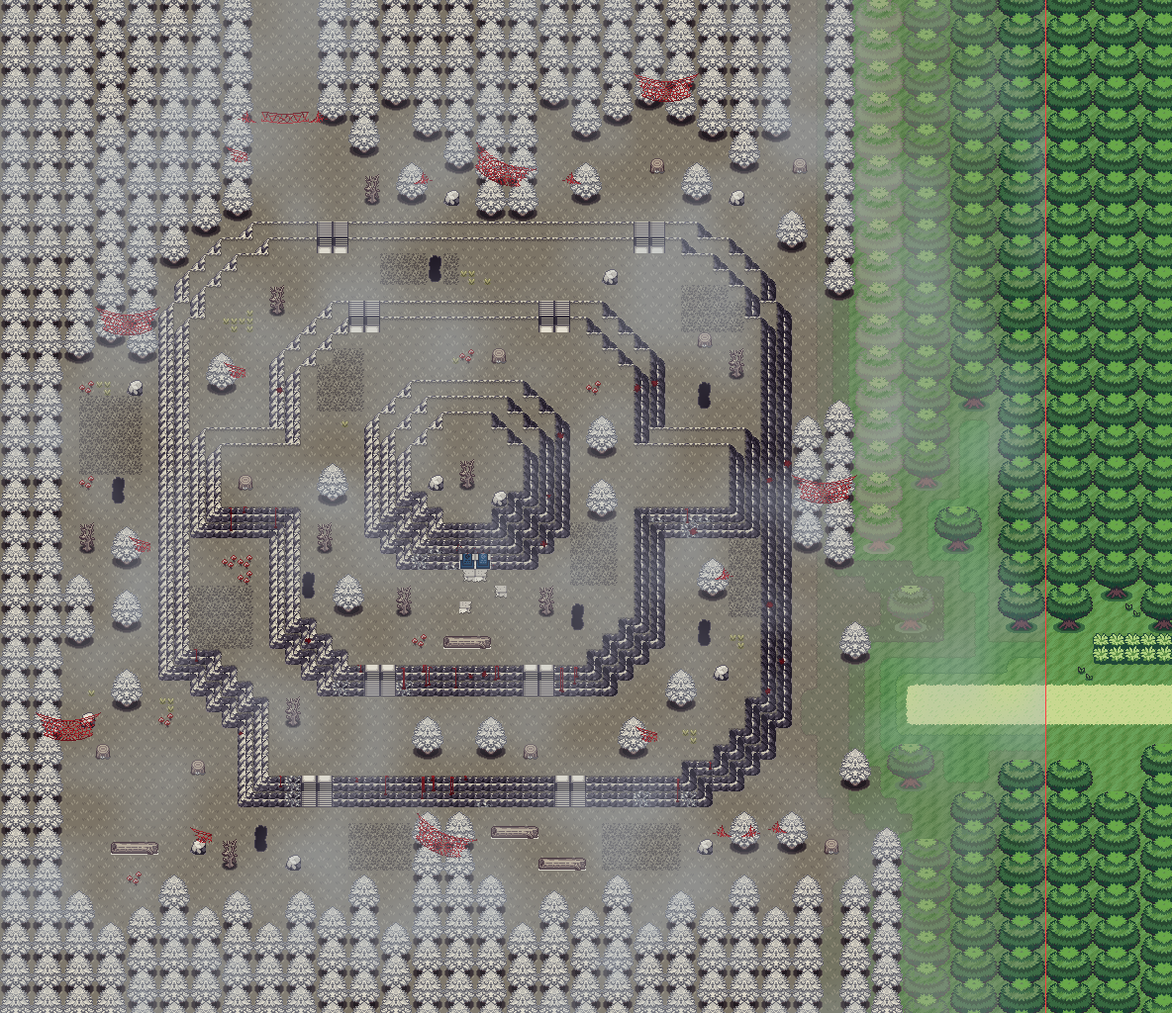
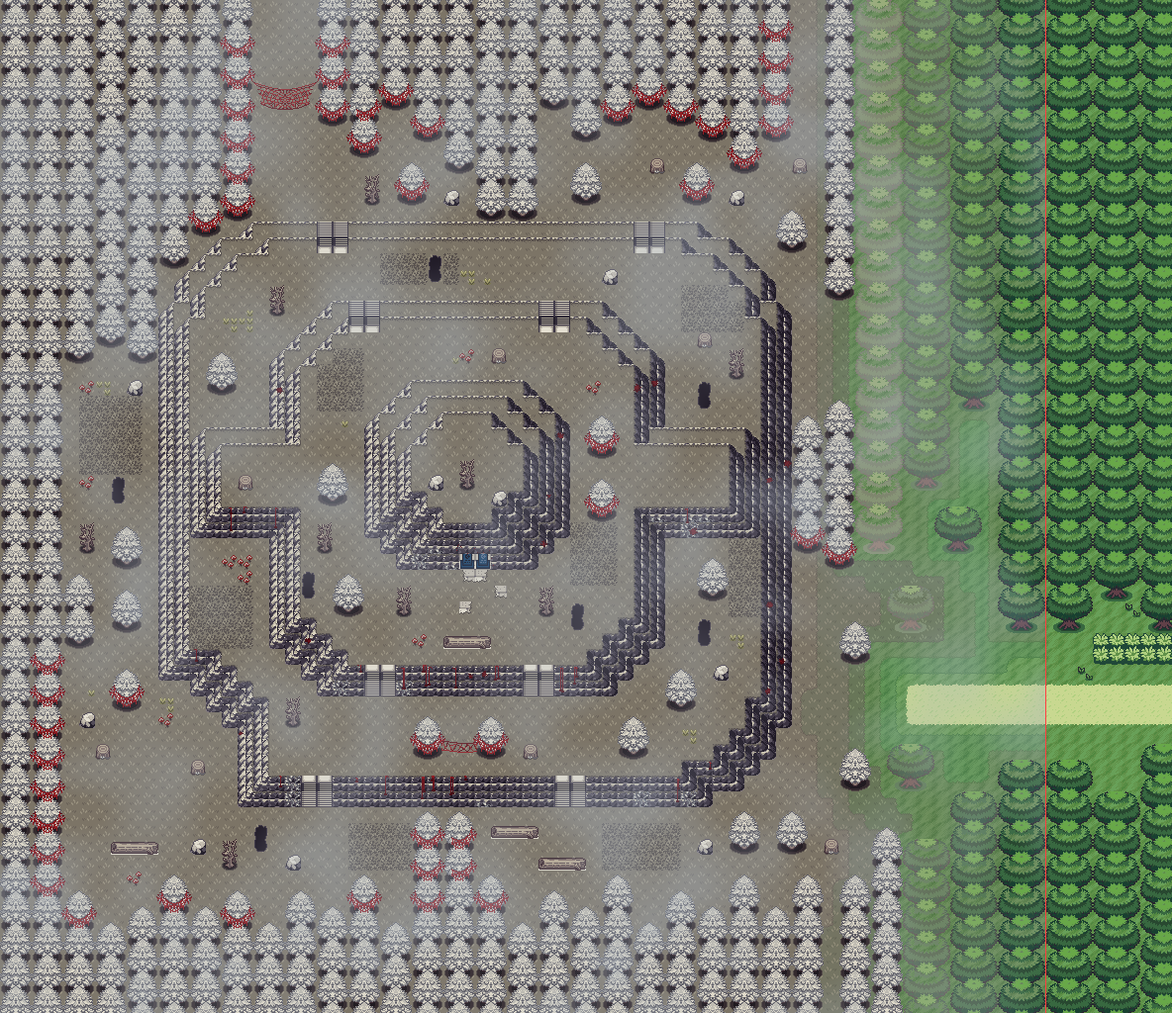
Hollow Hill mock v6: webs hung the way MonoMyth's Webbed Woods hangs them
Per the user (study the Webbed Woods): the web layer cut from MonoMyth's webbed trees
(fans at the crown's sides, the drape under it, the shared fan between neighbours, the
strand across a gap) is put on pines in patches at the woods' edges; the big net only
across the narrow way north; a strand between the user's pair of pines. Old-blood red.

Claude-Session: https://claude.ai/code/session_01FHXnfqnedTHLf5QFbB3MCU

diff --git a/tools/art/hollowhill/hh_mock.py b/tools/art/hollowhill/hh_mock.py
@@ -156,6 +156,7 @@ class Map:
         self.face = {}                                     # (x, y) -> Odyssey metatile (terraces, stairs, door)
         self.over = [[[] for _ in range(W)] for _ in range(H)]
         self.used = np.full((H, W), None, object)
+        self.units = []                                    # the pines of the woods' columns: (x0, top row)
         self.ground = [[None] * W for _ in range(H)]       # an RGB image replacing the grass, or None
         for y in range(H):
             for x in range(W):
@@ -252,7 +253,14 @@ def pine(M, x, y, check=True):
     for dy, row in enumerate(PINE):
         for dx, v in enumerate(row): M.lay(x + dx, y + dy, 'ody', v, f'tree:pine{x},{y}', top=dy == 0)
 
+def column_units(x0, yt, yb, kind):
+    if kind == 'north': return [(x0, f - 2) for f in range(yb, 1, -2)]
+    if kind == 'south': return [(x0, t) for t in range(yt, H - 2, 2)]
+    if kind == 'stack': return [(x0, t) for t in range(yt, yb - 1, 2)]
+    return [(x0, t) for t in range((yt + 1) // 2 * 2, yb - 1, 2)]           # 'wall': a crown on every even row
+
 def pine_column(M, x0, yt, yb, kind):
+    M.units += column_units(x0, yt, yb, kind)
     """Odyssey's pine forest: a column of pines two cells wide, each overlapping the one below (283 284: one pine's
     foot over the next one's crown). kind 'north' hangs from above yt (cut by the map's top), ends in a foot at yb;
     'south' starts with a crown at yt and runs off the bottom; 'wall' runs through (cut both ends)."""
@@ -558,32 +566,62 @@ def blood(M, img, seed=13, n=22):
         if 0 <= y < H * 16 and faceish[y, x] : img[y, x] = BLOOD[int(rng.integers(0, 2))]
     return img
 
-# webs: the Webbed Woods' webbing (MonoMyth; cut out for the haunted teachers' lounge), blood red, hung in the trees
+# webs (user 2026-11-20): the Webbed Woods' own webbing (MonoMyth), as MonoMyth hangs it, blood red. It lives in the
+# trees: on a webbed tree a fan of web at each side of its crown and a drape sagging under it; trees side by side
+# share a fan in the V between them; a zig-zag strand crosses an open gap from one webbed tree to the next; a big
+# sagging net closes a narrow path between two webbed trees. Webbing comes in patches (whole stretches of woods), not
+# on every tree. Layers cut from MonoMyth's webbed trees (its map 0x886DD40: cells 236 234 237 / 21e 22c 21f, the
+# shared fans 235 233 / 21d 21b, the strand 279 277 275 26e 26f / 27a 278 272 273 274), keyed out by the two web
+# colours: assets/monomyth_reference/pieces/webtree_*.png; the net: web_net.png (0x886DD5C).
 WEB_DIR = os.path.join(HERE, '..', '..', '..', 'assets', 'monomyth_reference', 'pieces')
-WEB_RED = {(240, 240, 248): (170, 36, 42), (200, 216, 232): (104, 18, 26)}
+WEB_RED = {(240, 240, 248): (146, 30, 36), (200, 216, 232): (92, 16, 24)}          # (old blood, not paint)
 def web(name):
     im = np.array(Image.open(os.path.join(WEB_DIR, name + '.png')).convert('RGBA'))
     for a, b in WEB_RED.items(): im[(im[..., :3] == a).all(-1), :3] = b
+    im[im[..., 3] == 0] = 0
     return im
 
-# (piece, cell x, cell y, pixel offset x, y): across the way north, over the trees that close the ways, at the
-# clearing's edge, at the foot of the stairs, among the clumps of pines on the rings
-WEBS = [('web_strand', 16, 7, 8, 1), ('web_corner_l', 15, 7, 0, 0), ('web_corner_r', 19, 7, 8, 0),
-        ('web_net', 6, 19, 0, 6), ('web_net_tilted', 30, 9, 0, 0), ('web_net', 50, 30, 0, 0),
-        ('web_net_tilted', 26, 51, 4, 6), ('web_net', 2, 45, 4, 0), ('web_small', 12, 52, 0, 4),
-        ('web_drape', 45, 52, 0, 2), ('web_small', 14, 9, 4, 4), ('web_net', 40, 4, 0, 10)]
+# the webbed patches (cells x0, y0, x1, y1): a pine is webbed when its crown's widest row lies inside one
+WEBBED = [(12, 0, 28, 13),            # round the way north, and the woods' edge above the dead tree (user)
+          (24, 44, 33, 48),           # the pair of pines on ring 1's south terrace (user)
+          (0, 41, 17, 63),            # round the clearing
+          (47, 23, 54, 37),           # the trees closing the way east
+          (23, 50, 31, 63),           # the trees closing the way south
+          (38, 0, 51, 12),            # the north-east woods
+          (34, 23, 41, 33)]           # a clump on ring 2
+NETS = [(16, 4, 5)]                   # (gap's first cell x, width, tree row): the big net across the way north
 
 def hang_webs(M, img):
     out = Image.fromarray(img).convert('RGBA')
-    for name, x, y, ox, oy in WEBS:
-        out.alpha_composite(Image.fromarray(web(name)), (x * 16 + ox, y * 16 + oy))
-    # and on a few of the pines standing alone: a small web or a corner caught in the branches
-    pines = sorted({u for u in M.used.ravel() if isinstance(u, str) and u.startswith('tree:pine')})
-    for i, u in enumerate(pines):
-        if i % 3: continue
-        x, y = map(int, u[len('tree:pine'):].split(','))
-        name = ('web_small', 'web_corner_r', 'web_corner_l')[(i // 3) % 3]
-        out.alpha_composite(Image.fromarray(web(name)), (x * 16 + (18 if name != 'web_corner_l' else -8), y * 16 + 14))
+    put = lambda name, px, py: out.alpha_composite(Image.fromarray(web(name)), (int(px), int(py)))
+    def open_(x, y): return 0 <= x < W and 0 <= y < H and (M.used[y, x] in (None, 'road') or str(M.used[y, x]).startswith('soft'))
+    # of the woods, only the trees on their edge (facing open ground: the ones the player sees close by)
+    trees = {(x, y) for x, y in M.units if M.used[y + 1, x] == 'woods' and
+             (any(open_(x + dx, y + dy) for dx in (-1, 2) for dy in (1, 2)) or open_(x, y + 3) or open_(x + 1, y + 3))}
+    alone = {tuple(map(int, u[len('tree:pine'):].split(','))) for u in M.used.ravel()
+             if isinstance(u, str) and u.startswith('tree:pine')}
+    trees |= alone
+    webbed = sorted((x, y) for x, y in trees
+                    if any(a <= x + 1 <= c and b <= y + 1 <= d for a, b, c, d in WEBBED))
+    at = set(webbed)
+    for x, y in webbed:
+        px, py = x * 16, (y + 1) * 16                       # the crown's widest row and the row under it
+        put('webtree_drape', px + 8, py)
+        if (x - 2, y) not in at: put('webtree_fan_l', px - 6, py)
+        if (x + 2, y) in at: put('webtree_fan_r', px + 22, py)       # the fan both trees share
+        else: put('webtree_fan_r', px + 22, py)
+        # a strand across an open gap to the next webbed tree in the row (1-4 cells of open ground)
+        for g in range(1, 5):
+            if (x, y) in alone and (x + 2 + g, y) in alone and (x + 2 + g, y) in at and all(M.used[y + 1, x + 2 + k] in (None, 'road') or str(M.used[y + 1, x + 2 + k]).startswith('soft')
+                                             for k in range(g)):
+                s = web('webtree_strand'); mid = s[:, 16:64]
+                span = g * 16 + 4
+                body = np.concatenate([mid] * 3, 1)[:, :span]
+                put_arr = Image.fromarray(body); out.alpha_composite(put_arr, ((x + 2) * 16 - 2, py))
+                break
+    for gx, w, row in NETS:
+        net = web('web_net')
+        out.alpha_composite(Image.fromarray(net), (gx * 16 + (w * 16 - net.shape[1]) // 2, row * 16 + 2))
     return np.array(out.convert('RGB'))
 
 def main(outdir):

diff --git a/bible/20_chapter1_build.md b/bible/20_chapter1_build.md
@@ -180,7 +180,7 @@ Chapter 1 is the template: once its foundations (mechanics, maps, buildings, NPC
 - **Pelluca's five houses (user design 2026-11-19), installed (stage 1: the look).** The five "door is locked" houses open: `PellucaHouse1`-`5` behind (59,8), (54,23), (64,23), (54,30), (64,30) (Pelluca warps 5-9; the manor takes 10 when it opens). Crown's medieval cottage kit (group 4 #1; credit: Blah and the Crown team, with permission): stone walls with small windows, plank floor, beds, wardrobes, bookcases, tables and chairs, candelabras, coat stands, barrels (user: Crown cottages with MonoMyth pieces where they make sense). **H1** (the two-winged timber townhouse, larger, 19x11): bookcases and MonoMyth's tree-stump lodge table with its stools (user), Crown's upright organ on its rug (from the manor set), wardrobe, bed, table. **H2:** an iron cauldron against the back wall (Crown's alchemist's room, group 18 #1), bed, wardrobe, bookcase, table. **H3:** two beds, the table in the middle, barrels by the door. **H4:** bookcases, the alchemist's cluttered desk and potion shelf, bed, table. **H5:** the smallest: wardrobe, table, bed, barrels, coat stand. User: no hearths (each replaced by something no other house has), no round rugs, no single chairs standing mid-floor. One shared tileset pair (`pelluca_houses_tiles` / `pelluca_houses`, 208 tiles, 63 metatiles, 9 palettes, pixel-identical to the mocks), built by `tools/art/houses/` (`houses_mock.py`, `build_houses.py`). Verified in the emulator: into each house from its door, around it, out by the mat. *Stage 2:* who lives in each, NPCs, dialogue.
 - **The ice path and the church after the blast (user design 2026-11-19), built (stage 1 + the stage-3 puzzle, user: the two combined for this piece).** **The church after Eden's blast** is a second layout of the same hall map (`LAYOUT_PELLUCA_TEMPLAR_HALL_RUINED`), swapped in by the hall's on-transition script once **`FLAG_DR_CHURCH_BLASTED`** is set (the blast scene, stage 4): the split through the gold medallion with frost round it, the old fault's cracks in wall and carpet, the cracked stained glass (three in the great window, one across the girl's face; two in each lancet) and the cell doorway caved in under MonoMyth's Mt. Thunder rubble (`blast_mock.py`, approved); no long crack from the rubble to the split (tried, dropped, user: unnatural and not needed). Everything else plays as the intact hall: its collision, its exit, and its side tables' tops over the player, read from the intact layout. The four split cells drop the player (Mt. Pyre's fall-through-the-hole) onto the ice path's landing; the cell door is dead and the fallen stone in front of it solid. **The ice path** (`PellucaIcePath`, 16x24, `icepath_mock.py`, approved): the landing, the 12x9 thin-ice field (86 ice cells, 22 ice boulders, a unique route from the landing to the gate), the ice wall and its gate, and the shrine: the half-thawed Arceus statue between the fossilised log benches, fire rings and blue flowers, and the three stone tusk arches like a ribcage before it. **The puzzle** runs on vanilla's Sootopolis-gym step callback (`STEP_CB_SOOTOPOLIS_ICE`, `VAR_ICE_STEP_COUNT`), which `src/field_tasks.c` now points at this map's own cracked/broken metatiles on this layout (`METATILE_PellucaIcePath_*`, written by the build into `metatile_labels.h`; the Sootopolis row-var bookkeeping kept to the gym). All 86 cracked (count 87): the gate's ice gives way (`SE_ICE_STAIRS`), the field refreezes solid (special `DrIcePathFreeze`: safe ice, no behaviour) and **`FLAG_DR_ICE_PATH_SOLVED`** is set; a second step on a cracked cell: the ice breaks, the player drops through, black screen, back on the landing with a fresh field. Every full load of the map rebuilds a fresh field and count when unsolved (special `DrIcePathReset`; a continued save would otherwise restore cracked cells in view), and the solved state (gate open, refrozen field) when solved. **Ways out:** the ladder in the shrine's corner, and (added in the build, so the player is never stuck before solving) **the Templars' rope** hanging beside the landing; both bring the player up just south of the split (hall warp 2). The ribs stand free: only each leg's foot is solid, the rest of each rib is drawn over the player, so he walks under and between them. Map type underground. Flags: `FLAG_DR_CHURCH_BLASTED` = 0x901, `FLAG_DR_ICE_PATH_SOLVED` = 0x902. Built by `tools/art/icepath/build_icepath.py` and `tools/art/templar/build_ruined.py` (with `imgtiles.py`; `tools/art/academy/tilefit.py` merges the statue's rarest near-shades so each 8x8 tile fits one palette, no visible change); `CHURCH_TEST_BLASTED=1` builds a test ROM that sets the flag on entering the hall. **Verified in the emulator** (test build): city -> ruined hall -> the cell door blocked -> into the split -> the landing; a second step on a cracked cell -> reset to the landing; the rope up and back down; the solution walked -> gate open, field refrozen -> the shrine -> the ladder up -> back down the split: still solved, the field crossed back and forth without falling. Normal build: the intact hall unchanged (city -> hall -> cell -> hall -> city; the split cells inert). *Stage 3-4, still to do:* the blast scene that sets the flag, the Templar's remark on the cold, the Sparkling Opal and the discovery, the Archbishop's scene, the leave-the-Valley block, dialogue for the fall (the field's black-out is silent for now).
 - **The shrine's awakening and the Sparkling Opal (user design 2026-11-20), built.** With the field solved, **pressing A on the Arceus statue** awakens the holy power of the site: dramatic music starts at the touch (**Rayquaza Appears**, `MUS_RAYQUAZA_APPEARS`; user: something awe-inspiring), a rumble, **the ice melts off the statue** (five frames, a little meltwater left at its foot), **the seal breaks in a holy flash** (fade to white and back) with **Arceus's cry echoing** (the cry's chorus mode under a heavy mixer reverb: specials `DrPlayEchoCry` / `DrEndEchoCry`), **the two fire rings beside the logs light** one after the other in **holy sapphire-and-white flame** (user's pick over warm firelight; animated, four frames on dedicated tiles: `InitTilesetAnim_PellucaIcePath`), and the music ends. Then Osrid (portrait, his private nameplate): "Something fell down out of the ice... Could this be...!!", and **"Osrid found the Sparkling Opal!"** with the key-item fanfare and its description popup. The statue stays thawed and the fires lit (`FLAG_DR_STATUE_AWAKENED` = 0x909, restored on every load). **Sparkling Opal** (`ITEM_SPARKLING_OPAL`, key item): its bag icon drawn in `awaken_mock.py` (a milky opal with a rainbow patchwork of play of colour, user); bag text (three lines fit): "Fell from the ice of / an Arceus statue. It / shimmers as if alive." (the user's description, "A gleaming opal that fell from the ice around an ancient Arceus statue. Its colours shift as if alive.", is too long for the bag window; it can be the text when the item is first shown or examined). **What happens to it (user 2026-11-20, canon):** when the player goes back up and shows it to **Archbishop Ambrose**, he gives them the **Warding Ring** with massive enthusiasm (a key item that, worn, keeps wild Pokémon away: a Repel switched on and off at will): Sparkling Opals appear only where Arceus has set foot in the material realm, the Templars have sought one for centuries, and this is the first physical proof of Arceus found in centuries as far as he knows. The player also gets the bravery reward (Never-Melt Ice / Metal Coat / Soft Sand). Stage 4: the scene; the Ring's mechanic to be built with it. **Ice path music (user):** the cave plays **MonoMyth's Old Headquarters theme** (Old Town's Old HQ, where the gang leader with the Bug Pokémon is fought): MonoMyth song 677 ported note for note by `tools/monomyth/port_song.py` (tracks, the voices it uses, its two samples; credit MonoMyth) as `MUS_DR_OLD_HQ` (song 631). **Church crack** (user): the long fresh crack from the cell rubble to the split is gone. Built by `build_icepath.py` with `awaken_mock.py` (melt frames, flames, icon); the statue's cells across all the melt frames share 26 colours (`tilefit.reduce_joint`) so the room still fits 13 palettes. **Verified in the emulator** (test build): the cave plays the Old HQ theme; A on the statue plays the whole sequence (music switches to Rayquaza Appears and back, the melt, the flash, both fires, the line, the item into Key Items); leaving and coming back: statue thawed, fires lit and flickering (four distinct frames).
-- **Route 11 and Hollow Hill: layouts approved (user 2026-11-20).** **Route 11** (45x30, west from Pelluca's west road): Pelluca's pines and cobble road carry on at the east end (the seam to Pelluca uses Pelluca's own Cormoria tiles), farmland in the middle (a thatched farmhouse with a fenced yard, cabbage rows, a sown field, hay; fenced flower rows and tall grass south of the road), tan cliffs stepping down along the north, a cliff-flanked little cove on the south coast, and at the west end the road becomes a dirt track into cooler dark woods running on into Hollow Hill (the Eiscue scene on that track). Art: Crown's seaside farm village (3.1) and dark woods (3.25), Odyssey's farm (0.232); Pisces' Brumist Cliffs / Zotpyre Village (snowy in the ROM) and Odyssey's terraced hill as layout ideas. **Hollow Hill** (about 50x50; **its theme (approved by the user 2026-11-20, "perfect"):** Ghost Grey's Route 1 theme re-arranged as `MUS_DR_HOLLOW_HILL` by `tools/music/arrange_hollow_hill.py`: slowed from 124 to 64 bpm, on the soft pedal piano, no percussion, with a ghostly far-off voice echoing the tune (a sine tone first, heard as beeps: replaced) (wind was tried and taken out: it came across as static) in the bars where the song falls quiet; credit Ghost Grey): woods rising in three rings, each a cliff step up, to a central rock knoll; the path in from Route 11 climbs the rings by stairs to **the sealed tunnel door** at the knoll's foot; the north exit to Mirroh leaves from the outer ring (Glaive there); the Eiscue and the 1v2 on the outer ring; **very foggy, with a generally spooky, unsettling feeling** (user 2026-11-20). **The summit is late-game** (unlocked only with Valkeerin/Keerin in the party; the trip to the distant future and the Red fight happen there; 19_location_atlas.md). **Hollow Hill will be revisited and added to over the whole game** (many secrets, met in pieces): its layout and its tileset keep room for more (hidden burrow mouths placed now as scenery that can later open, the summit area behind the sealed door, spare palette and tile room in its tileset). **Revision (user 2026-11-20, after the first mock):** Route 11 is **about twice as long (about 90x30)**; the **Ivy River's thin western branch** (as on the illustrated region map, coming down from the north past the Necropolis just west of Pelluca) **crosses Route 11 near its Pelluca end and runs down to the beach and the sea; the road crosses it on a bridge**; the **grass shifts gradually** from Pelluca's light mint to the darker temperate greens of Hollow Hill's woods (shades reaching into each other in patches, as MonoMyth's and Crown's route boundaries do; tree kinds mixing before they change). Design rule: no tree or object ever cut, stacked into another or bleeding into buildings, cliffs or water (docs/chapter1_workflow.md). **Mock v2 (2026-11-20):** the river drops through a chasm in three falls (the middle one under the bridge), over the coastal cliff into a rock pool, and a stream bends west over the sand to the sea; the beach is a cove between cliff walls, split by the stream. **Steps down to the west beach (user 2026-11-20)** are cut into the coastal cliff just west of the bridge (stone stairs, two wide: Pelluca's own stair tiles, as in its sea wall): the beach holds **at least one trainer**, and more may go there later. The east beach (between the stream and Pelluca's pines) has no way down yet: **revisit later (user 2026-11-20).** **Built (2026-11-20):** `MAP_ROUTE11` (layout 90x40: five rows of woods, the chasm and the sea added above and below the approved picture, out of the player's reach, so the camera never shows past the edge), connected to Pelluca's west road (Route 11's road rows 19-21 = Pelluca's 28-30). Its own secondary tileset (`gTileset_Route11`, 7 palettes: grass, broadleaf woods, farm, cottage and hay, bridge, cliffs, river and pines on sage) under Pelluca's primary; Pelluca's own metatiles wherever a cell is one. Crowns of trees are walked behind; tall grass is tall grass (no encounter table yet: stage 5); the river in the chasm is solid, the stream and the sea need Surf. **Story gate (provisional):** stepping onto Pelluca's west edge is stopped with Osrid's line ("Cadmus told me to meet him at the church..." after the blast, a general line before it) until the shrine is awakened; stage 4 sets the real condition. **Music (user 2026-11-20):** MonoMyth's Route 15 theme (`MUS_DR_MM_ROUTE15`): a classic Pokémon route theme, reworked, a bright contrast before spooky Hollow Hill. Credit: MonoMyth (its music). **Pelluca Valley's main theme (user 2026-11-20):** Pokémon Crown's route theme (its song 292, `MUS_DR_CROWN_PELLUCA`), replacing Lilycove's, **in the piano version the user chose** (`MUS_DR_CROWN_PELLUCA_PIANO`: our pedal piano for its guitar, harp, clarinet and flute, standalone; the original as ported was removed, user: the remix is better). Credit: Pokémon Crown (its music). **Cold-open music (user 2026-11-20):** MonoMyth's "A Legend Unfolds" (`MUS_DR_LEGEND_UNFOLDS`; in MonoMyth it plays when Fabrizia's museum in North Edelweiss tells the legend of Athanto's Pokémon) plays from Tenebris's notes through Cadmus's letter until Osrid docks in Pelluca, replacing "Far Horizons". Credit: MonoMyth (its music). **Loops checked in the game (2026-11-20):** Pelluca's theme, Route 11's, the cold open's and Hollow Hill's each play through their loop point and come back in step with their loop start (every track loops at the same point). **Sound engine (2026-11-20):** 12 sampled voices instead of 5, as MonoMyth uses (the songs from MonoMyth and Crown play up to 10-12 notes at once; with 5 they cut each other off). **Hollow Hill mock v3 (user 2026-11-20: "quite good"):** `tools/art/hollowhill/hh_mock.py`, renders in `assets/hollowhill_reference/`. Art: Pokémon Odyssey's haunted forest (its maps 0.94/0.95/0.97: teal floor, dark pines, dead trees, stumps, logs, red mushrooms, dark tall grass, burrow hollows, grey stone terraces and stairs, the sealed blue door); credit Odyssey. Layout 66x64 (the hill about 40x37; the extra width is the east edge, where Route 11's olive ground and Crown woods darken and mix into the teal and the pines over about ten columns; Route 11's row = Hollow Hill's row - 24, its track on rows 43-45). Ring edges drawn by Odyssey's own terrace grammar, two bands per ring, three for the knoll. **The way through (user 2026-11-20):** the woods floor is closed into sections by trees running up to the cliffs (north-west corner, north, east, south), and ring 2 reaches out west and east to ring 1's edge, cutting ring 1 into a north and a south half, so **the player can never go round the hill: from Route 11 up ring 1, up ring 2 (the sealed door, or over), down the north side to the north woods and the exit to Mirroh.** Eight stairs, four per ring (south faces, and north edges with the steps drawn down-facing) link the sections: the clearing (Eiscue, the 1v2) is its own section with its own stairs; the north-east woods are a dead-end pocket (room for an item or a secret). The mock checks this each run: with ring 2's stairs closed the north is out of reach; with ring 1's closed the woods sections do not join. The void pits with red eyes were dropped (they read as ponds). **Later (user 2026-11-20):** Hollow Hill keeps being worked on through the game, e.g. **a cool ruined structure on the top**, since it truly is an ancient and arguably cursed place. **Colours (user 2026-11-20):** the woods and their floor an **off-white, creepy bone** (Odyssey's pines, floor and tall grass recoloured one for one), the cliffs a **sinister stone, dark and light mixed** (near-black violet shade, charcoal faces, bone-pale lit edges), so Hollow Hill stands out even in the fog; trunks, red mushrooms and the sealed door's cold blue kept. At the east edge Route 11's green woods pale toward bone over three columns of trees (`hh_mock.py` BONE, tint). **Unsettling throughout (user 2026-11-20):** the pines' bone shades go to a **sinister grey** in their depths; **blood-like stains** run down the cliffs from their tops and soak into the stone in blots (more round the sealed door); **MonoMyth's Webbed Woods webbing** (the pieces cut out for the haunted teachers' lounge, `assets/monomyth_reference/pieces/`), **recoloured blood red**, hangs across the way north, over the trees that close the ways, at the clearing's edge and caught in clumps of pines (credit MonoMyth).
+- **Route 11 and Hollow Hill: layouts approved (user 2026-11-20).** **Route 11** (45x30, west from Pelluca's west road): Pelluca's pines and cobble road carry on at the east end (the seam to Pelluca uses Pelluca's own Cormoria tiles), farmland in the middle (a thatched farmhouse with a fenced yard, cabbage rows, a sown field, hay; fenced flower rows and tall grass south of the road), tan cliffs stepping down along the north, a cliff-flanked little cove on the south coast, and at the west end the road becomes a dirt track into cooler dark woods running on into Hollow Hill (the Eiscue scene on that track). Art: Crown's seaside farm village (3.1) and dark woods (3.25), Odyssey's farm (0.232); Pisces' Brumist Cliffs / Zotpyre Village (snowy in the ROM) and Odyssey's terraced hill as layout ideas. **Hollow Hill** (about 50x50; **its theme (approved by the user 2026-11-20, "perfect"):** Ghost Grey's Route 1 theme re-arranged as `MUS_DR_HOLLOW_HILL` by `tools/music/arrange_hollow_hill.py`: slowed from 124 to 64 bpm, on the soft pedal piano, no percussion, with a ghostly far-off voice echoing the tune (a sine tone first, heard as beeps: replaced) (wind was tried and taken out: it came across as static) in the bars where the song falls quiet; credit Ghost Grey): woods rising in three rings, each a cliff step up, to a central rock knoll; the path in from Route 11 climbs the rings by stairs to **the sealed tunnel door** at the knoll's foot; the north exit to Mirroh leaves from the outer ring (Glaive there); the Eiscue and the 1v2 on the outer ring; **very foggy, with a generally spooky, unsettling feeling** (user 2026-11-20). **The summit is late-game** (unlocked only with Valkeerin/Keerin in the party; the trip to the distant future and the Red fight happen there; 19_location_atlas.md). **Hollow Hill will be revisited and added to over the whole game** (many secrets, met in pieces): its layout and its tileset keep room for more (hidden burrow mouths placed now as scenery that can later open, the summit area behind the sealed door, spare palette and tile room in its tileset). **Revision (user 2026-11-20, after the first mock):** Route 11 is **about twice as long (about 90x30)**; the **Ivy River's thin western branch** (as on the illustrated region map, coming down from the north past the Necropolis just west of Pelluca) **crosses Route 11 near its Pelluca end and runs down to the beach and the sea; the road crosses it on a bridge**; the **grass shifts gradually** from Pelluca's light mint to the darker temperate greens of Hollow Hill's woods (shades reaching into each other in patches, as MonoMyth's and Crown's route boundaries do; tree kinds mixing before they change). Design rule: no tree or object ever cut, stacked into another or bleeding into buildings, cliffs or water (docs/chapter1_workflow.md). **Mock v2 (2026-11-20):** the river drops through a chasm in three falls (the middle one under the bridge), over the coastal cliff into a rock pool, and a stream bends west over the sand to the sea; the beach is a cove between cliff walls, split by the stream. **Steps down to the west beach (user 2026-11-20)** are cut into the coastal cliff just west of the bridge (stone stairs, two wide: Pelluca's own stair tiles, as in its sea wall): the beach holds **at least one trainer**, and more may go there later. The east beach (between the stream and Pelluca's pines) has no way down yet: **revisit later (user 2026-11-20).** **Built (2026-11-20):** `MAP_ROUTE11` (layout 90x40: five rows of woods, the chasm and the sea added above and below the approved picture, out of the player's reach, so the camera never shows past the edge), connected to Pelluca's west road (Route 11's road rows 19-21 = Pelluca's 28-30). Its own secondary tileset (`gTileset_Route11`, 7 palettes: grass, broadleaf woods, farm, cottage and hay, bridge, cliffs, river and pines on sage) under Pelluca's primary; Pelluca's own metatiles wherever a cell is one. Crowns of trees are walked behind; tall grass is tall grass (no encounter table yet: stage 5); the river in the chasm is solid, the stream and the sea need Surf. **Story gate (provisional):** stepping onto Pelluca's west edge is stopped with Osrid's line ("Cadmus told me to meet him at the church..." after the blast, a general line before it) until the shrine is awakened; stage 4 sets the real condition. **Music (user 2026-11-20):** MonoMyth's Route 15 theme (`MUS_DR_MM_ROUTE15`): a classic Pokémon route theme, reworked, a bright contrast before spooky Hollow Hill. Credit: MonoMyth (its music). **Pelluca Valley's main theme (user 2026-11-20):** Pokémon Crown's route theme (its song 292, `MUS_DR_CROWN_PELLUCA`), replacing Lilycove's, **in the piano version the user chose** (`MUS_DR_CROWN_PELLUCA_PIANO`: our pedal piano for its guitar, harp, clarinet and flute, standalone; the original as ported was removed, user: the remix is better). Credit: Pokémon Crown (its music). **Cold-open music (user 2026-11-20):** MonoMyth's "A Legend Unfolds" (`MUS_DR_LEGEND_UNFOLDS`; in MonoMyth it plays when Fabrizia's museum in North Edelweiss tells the legend of Athanto's Pokémon) plays from Tenebris's notes through Cadmus's letter until Osrid docks in Pelluca, replacing "Far Horizons". Credit: MonoMyth (its music). **Loops checked in the game (2026-11-20):** Pelluca's theme, Route 11's, the cold open's and Hollow Hill's each play through their loop point and come back in step with their loop start (every track loops at the same point). **Sound engine (2026-11-20):** 12 sampled voices instead of 5, as MonoMyth uses (the songs from MonoMyth and Crown play up to 10-12 notes at once; with 5 they cut each other off). **Hollow Hill mock v3 (user 2026-11-20: "quite good"):** `tools/art/hollowhill/hh_mock.py`, renders in `assets/hollowhill_reference/`. Art: Pokémon Odyssey's haunted forest (its maps 0.94/0.95/0.97: teal floor, dark pines, dead trees, stumps, logs, red mushrooms, dark tall grass, burrow hollows, grey stone terraces and stairs, the sealed blue door); credit Odyssey. Layout 66x64 (the hill about 40x37; the extra width is the east edge, where Route 11's olive ground and Crown woods darken and mix into the teal and the pines over about ten columns; Route 11's row = Hollow Hill's row - 24, its track on rows 43-45). Ring edges drawn by Odyssey's own terrace grammar, two bands per ring, three for the knoll. **The way through (user 2026-11-20):** the woods floor is closed into sections by trees running up to the cliffs (north-west corner, north, east, south), and ring 2 reaches out west and east to ring 1's edge, cutting ring 1 into a north and a south half, so **the player can never go round the hill: from Route 11 up ring 1, up ring 2 (the sealed door, or over), down the north side to the north woods and the exit to Mirroh.** Eight stairs, four per ring (south faces, and north edges with the steps drawn down-facing) link the sections: the clearing (Eiscue, the 1v2) is its own section with its own stairs; the north-east woods are a dead-end pocket (room for an item or a secret). The mock checks this each run: with ring 2's stairs closed the north is out of reach; with ring 1's closed the woods sections do not join. The void pits with red eyes were dropped (they read as ponds). **Later (user 2026-11-20):** Hollow Hill keeps being worked on through the game, e.g. **a cool ruined structure on the top**, since it truly is an ancient and arguably cursed place. **Colours (user 2026-11-20):** the woods and their floor an **off-white, creepy bone** (Odyssey's pines, floor and tall grass recoloured one for one), the cliffs a **sinister stone, dark and light mixed** (near-black violet shade, charcoal faces, bone-pale lit edges), so Hollow Hill stands out even in the fog; trunks, red mushrooms and the sealed door's cold blue kept. At the east edge Route 11's green woods pale toward bone over three columns of trees (`hh_mock.py` BONE, tint). **Unsettling throughout (user 2026-11-20):** the pines' bone shades go to a **sinister grey** in their depths; **blood-like stains** run down the cliffs from their tops and soak into the stone in blots (more round the sealed door); **MonoMyth's Webbed Woods webbing, recoloured blood red, hung as MonoMyth hangs it** (user 2026-11-20: study the Webbed Woods): the webbing lives in the trees, a fan at each side of a webbed tree's crown and a drape sagging under it, neighbouring trees sharing the fan in the V between them, a zig-zag strand across an open gap from one webbed tree to the next, a big sagging net only across a narrow path between two webbed trees; in patches, on the trees at the woods' edges (round the way north with the net across it, the woods' edge over the dead tree, the pair of pines on ring 1's south terrace with a strand between them, round the clearing, the trees closing the ways east and south, the north-east woods, a clump on ring 2). Layers cut from MonoMyth's webbed trees (its map 0x886DD40), `assets/monomyth_reference/pieces/webtree_*.png`; the net `web_net.png` (0x886DD5C). Credit MonoMyth.
 - **Chapter 1 asset references (user 2026-11-19), for later: nothing built yet.** **Permissions and credits (user 2026-11-19):** Pokémon Crown (Blah and the Crown team) and Pokémon Ghost Grey Version EX (JoeyZeed) are used with permission; credit them in the notes alongside MonoMyth, Pokémon Odyssey and the Pokémon Rejuvenation team. Sources earmarked while surveying Pokémon Crown (FireRed hack by Blah and the Crown team; `tools/crown/README.md`, renders in `assets/crown_reference/`), MonoMyth, Dreamstone Mysteries and Rejuvenation:
   - **Mirroh Necropolis entrance:** Crown's curved palisade gate (walled capital, map group 3 #3, cells x43-54 y5-13), recoloured sinister (slate stone, charred wood, tarnished bronze arch, spectral banners) with graveyard/gothic ornament, as the grand entrance down into the catacombs (user). Catacomb levels: Crown's underground stone halls (group 6 #8: tiered walls, cobwebs, pillars, plank bridges over a chasm, a sealed chamber) and its sewer (group 7 #11), recoloured. Graves: DM's Mirroh Base Camp Graveyard headstones (metatile 0x3A5 in LAYOUT_MIRROH_BASE_CAMP_GRAVEYARD) and MonoMyth Speedwell's wooden cross markers (metatiles 0x39, 0xA6); dead stumps from MonoMyth's Haunted Swamp; Crown's cobwebs; Rejuvenation's iron candle stands with ghost-coloured flames; Crown's dragon statues darkened into gargoyles. **Underground catacombs (user, primary reference):** Pokémon Ghost Grey Version EX's Lavender Town catacombs (by JoeyZeed; `tools/ghostgrey/README.md`, renders in `assets/ghostgrey_reference/`): six chambers with grave niches, demon-face reliefs and chasm crossings, ending in a pillared chamber with a sealed gate (the Distortion gate's room). They are greyscale and need a proper palette.
   - **Templar Headquarters ("Templar Citadel", Mt. Mirroh):** Crown's gothic cathedral on its moat island with timber chalets (group 3 #2), with an alpine/snow treatment and perhaps an outer wall.

diff --git a/assets/monomyth_reference/README.md b/assets/monomyth_reference/README.md
@@ -17,3 +17,4 @@ MonoMyth (Pokémon MonoMyth) reference renders and cut pieces.
 - pieces/rubble_pile_a.png, rubble_pile_b.png, rubble_pile_c.png, rubble_stones.png, rubble_stone.png: rubble piles and
   loose stones from Mt. Thunder (map 0x886D608, cells (29,28), (39,34), (42,33), (32,30), (30,32)), cut against its icy
   floor. Used (turned grey) to choke the cell doorway in the church after Eden's blast (tools/art/templar/blast_mock.py).
+- pieces/webtree_fan_l.png, webtree_drape.png, webtree_fan_r.png, webtree_join.png, webtree_strand.png: the web layer of the Webbed Woods' webbed trees (0x886DD40: the left fan 236/21e, the drape under the crown 234/22c, the right fan 237/21f, the fans two trees share 235 233 / 21d 21b, the strand across a gap 279 277 275 26e 26f / 27a 278 272 273 274), keyed out by the two web colours. Hollow Hill's blood-red webbing (user).
